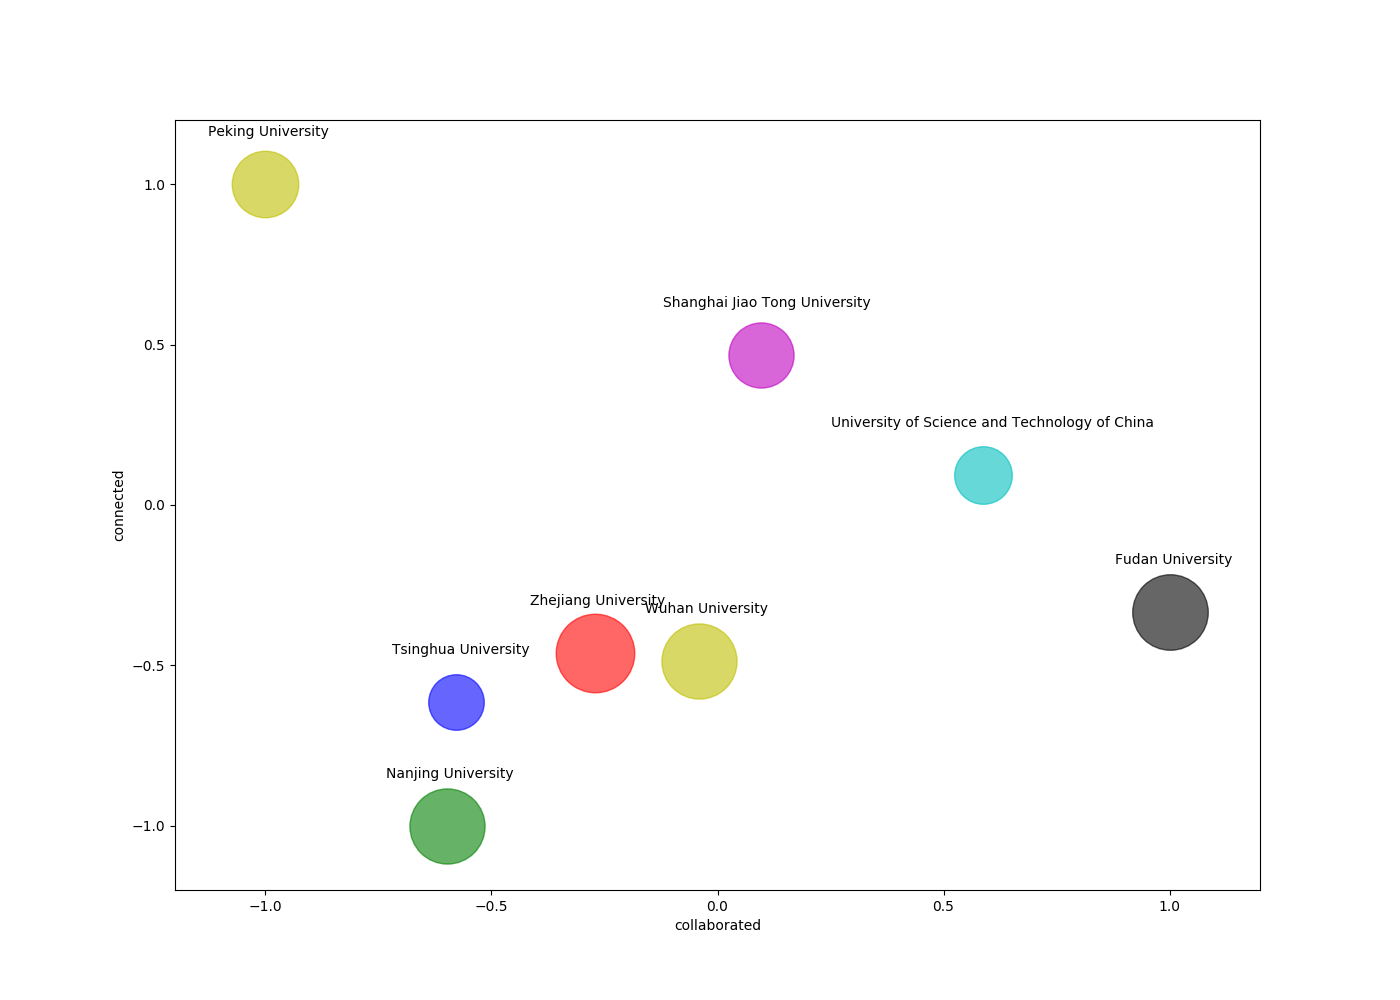
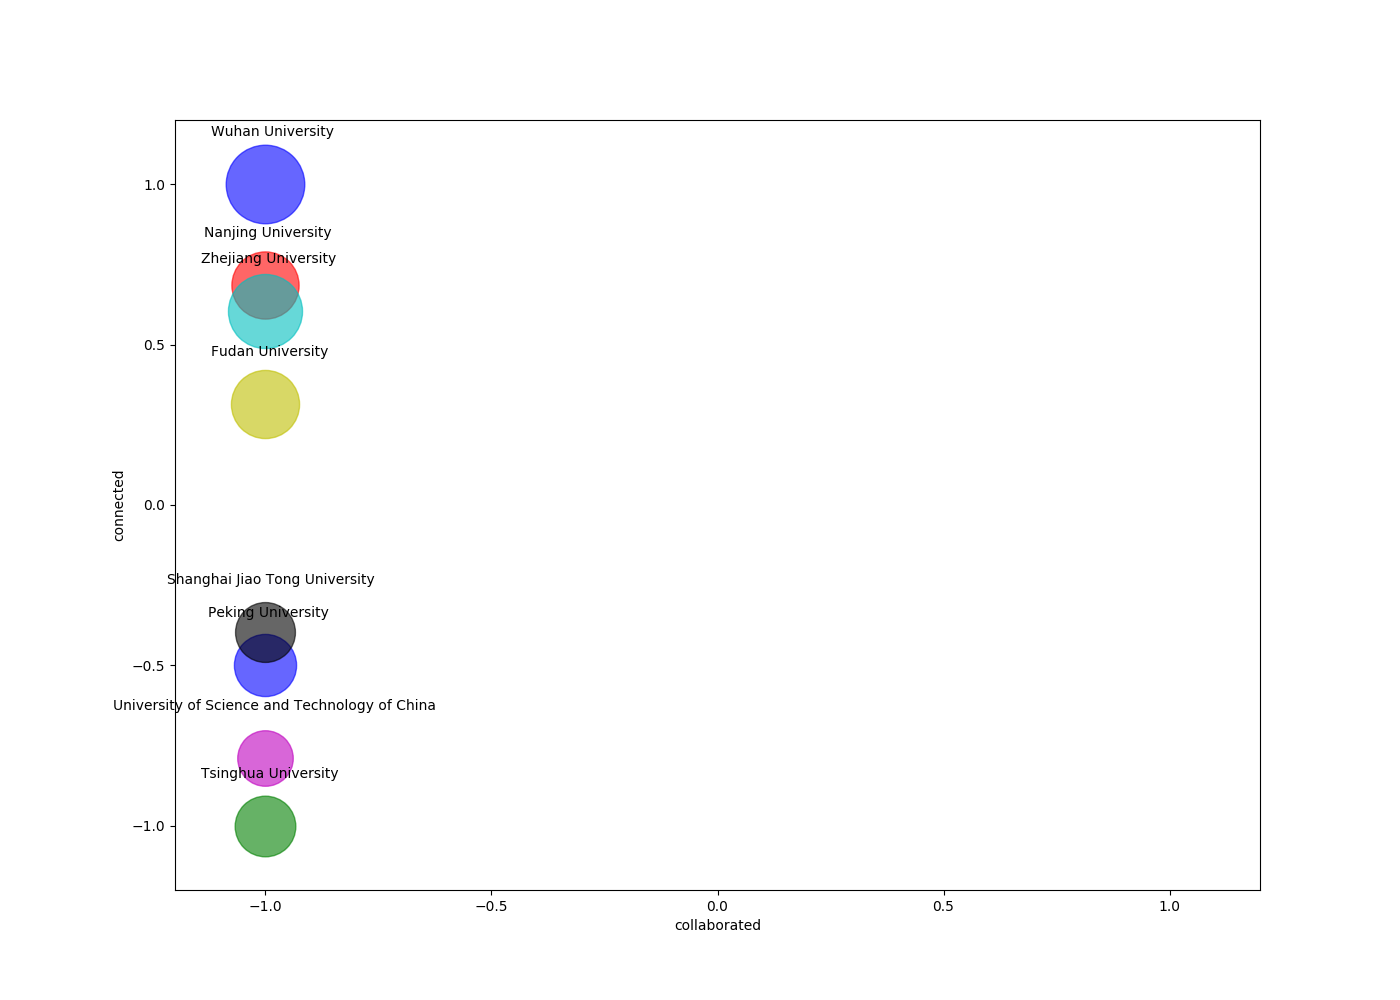
add more metrics

diff --git a/analyze.py b/analyze.py
@@ -4,10 +4,34 @@ import json, re
 from collections import defaultdict
 from itertools import cycle
 import util
+import pandas as pd
+from mpl_toolkits.mplot3d import Axes3D
 
-color_cycle = cycle('ybgrcmk')
+color_cycle = cycle('bgrcmky')
 
-def compute_total_connection(connections):
+def compute_member_w_connection(connections, stat):
+    '''
+    this function compute # of faculty members w/ connection provided by google scholar
+    params:
+        connections: dict of dict, saved by main.find_connections,
+            key: institution name, value: dict, 
+            secondary key: faculty member's name, secondary value: list of cooperating institutions
+        stat:
+            statistics
+    return value:
+        stat: key: institution name, value: dict
+        secondary key: #member_w_connection, secondary value: cnt
+    '''
+    for univ in connections:
+        member_cnt = 0
+        for member in connections[univ]:
+            if connections[univ][member]:
+                member_cnt += 1
+        stat[univ]['#member_w_connection'] = member_cnt
+        stat[univ]['#total_member'] = len(connections[univ])
+    return stat
+
+def compute_total_connection(connections, stat):
     '''
     this function computes the average connection per faculty member of a given institution
     have. Note: since we set `top_k` for maximum number of google scholar coauthors, this
@@ -16,89 +40,94 @@ def compute_total_connection(connections):
     params:
         connections: dict of dict, saved by main.find_connections,
             key: institution name, value: dict, 
-            secondary key: faculty member's name, secondary value: list of cooperating institutions 
+            secondary key: faculty member's name, secondary value: list of cooperating institutions
     return value:
         dict:
             key: institution name, value: dict
-            secondary key: 'total': # of total connections, '#members': # of all faculty members
+            secondary key: 'total_connections': # of total_connections connections,
+            '#members': # of all faculty members
     '''
-    t_avg_cons = dict()
     for univ in connections:
         cnt = 0
         for member in connections[univ]:
             cnt += len(connections[univ][member])
-        t_avg_con = defaultdict(float)
-        t_avg_con['total'] = cnt
-        t_avg_con['#members'] = len(connections[univ])
-        t_avg_cons[univ] = t_avg_con
-    return t_avg_cons
+        stat[univ]['total_connections'] = cnt
+    return stat
 
-def compute_inner_connection(counts, t_avg_cons):
+def compute_inner_connection(counts, stat):
     '''
-    this function computes the ratio of inner connections to total connections
+    this function computes the ratio of inner_connection_ratio connections to total_connections connections
     params:
         counts: dict of dict, saved by main.compute_frequency
             key: institution name, value: dict,
             secondary key: institute's name, secondary key: number of occurrance
-        t_avg_cons: dict of defaultdict, returned by compute_total_connection
-            key: institution name, value: dict
-            secondary key: 'total', 'avg', value: total connections, avg per member
+        stat: dict of dict, statistics computed
     return value:
         defaultdict:
             key: institution name, value: dict
-            secondary key: 'total', 'avg', 'inner', value: total connections,
-            avg per member, ratio of inner connections
+            secondary key: 'total_connections', 'num_members', 'inner_connection_ratio', value: total_connections connections,
+            num_members per member, ratio of inner_connection_ratio connections
     '''
     for univ in counts:
-        for ins in counts[univ]:    # ins: [institution_name, #connection]
+        stat[univ]['inner_connection_ratio'] = 0
+        for ins in counts[univ]:    # ins: {institution_name: #connection}
             if re.sub('[^a-zA-Z -]', '', ins).lower() == re.sub('[^a-zA-Z -]', '', univ).lower():
-                t_avg_cons[univ]['inner'] += counts[univ][ins] / t_avg_cons[univ]['total']
-        t_avg_cons[univ]['unique'] = len(counts[univ])
-        t_avg_cons[univ]['avg'] = t_avg_cons[univ]['unique'] / t_avg_cons[univ]['#members']
-        t_avg_cons
-    return t_avg_cons
+                stat[univ]['inner_connection_ratio'] += counts[univ][ins]
+        stat[univ]['inner_connection_ratio'] /= stat[univ]['total_connections']
+        stat[univ]['unique_connections'] = len(counts[univ])
+        stat[univ]['avg_connection_per_member'] = stat[univ]['unique_connections'] / stat[univ]['#total_member']
+        stat[univ]['avg_per_member_w_connection'] = stat[univ]['unique_connections'] / stat[univ]['#member_w_connection']
+        stat[univ]['avg_collaborator_per_member'] = stat[univ]['total_connections'] / stat[univ]['#member_w_connection']
+    return stat
 
 def plot_field(stat):
     '''
     this function will visualize the data we collect, with x-axis being outer connection ratio,
-    and y-axis being number of unique connections, size of plot being total connections
+    and y-axis being number of unique_connections connections, size of plot being total_connections connections
     params:
         stat: dict of dict
             key: institution name, value: dict
-            secondary key: 'total', 'avg', 'inner', 'unique'
+            secondary key: 'total_connections', 'num_members', 'inner_connection_ratio', 'unique_connections'
     return value:
         none
     '''
-    plt.figure(figsize=(14, 10))
-    plt.xlabel('collaborated')
-    plt.ylabel('connected')
-    plt.xlim(-1.2, 1.2)
-    plt.ylim(-1.2, 1.2)
-    total, inner, unique, avg = [], [], [], []
+    fig = plt.figure()
+    ax = fig.add_subplot(111, projection='3d')
+    ax.set_xlabel('outreached')
+    ax.set_ylabel('connected')
+    ax.set_zlabel('collaborated')
+    ax.set_xlim(-.2, 1.2)
+    ax.set_ylim(-.2, 1.2)
+    ax.set_zlim(-.2, 1.2)
+    x_axis, y_axis, z_axis, area = [], [], [], []
     for univ in stat:
-        total.append(stat[univ]['total'])
-        inner.append(1-stat[univ]['inner'])
-        unique.append(stat[univ]['unique'])
-        avg.append(stat[univ]['avg'])
-    total, inner, unique, avg = np.array(total), np.array(inner), np.array(unique), np.array(avg)
-    epsilon = 2e-8  # avoid divided by 0
-    avg = util.normal_to_m1p1(avg)
-    inner = util.normal_to_m1p1(inner)
-    unique = util.normal_to_01(unique) + 1
+        x_axis.append(1-stat[univ]['inner_connection_ratio'])
+        y_axis.append(stat[univ]['avg_per_member_w_connection'])
+        z_axis.append(stat[univ]['avg_collaborator_per_member'])
+        area.append(stat[univ]['#total_member'])
+    x_axis, y_axis, z_axis, area = np.array(x_axis), np.array(y_axis), np.array(z_axis), np.array(area)
+    x_axis = util.normal_to_01(x_axis)
+    y_axis = util.normal_to_01(y_axis)
+    z_axis = util.normal_to_01(z_axis)
+    area = util.normal_to_01(area) + 1
     offset1, offset2, idx = 7.5e-3, 1.5e-1, 0
     for univ in stat:
-        plt.scatter(inner[idx], avg[idx], s=unique[idx]*1600, c=next(color_cycle), alpha=.6)
-        plt.annotate(univ, (inner[idx], avg[idx]), (inner[idx]-offset1*len(univ), avg[idx]+offset2))
+        ax.scatter(x_axis[idx], y_axis[idx], z_axis[idx], s=area[idx]*2000, c=next(color_cycle), marker='o', alpha=.6)
+        # ax.annotate(univ, (x_axis[idx],y_axis[idx], z_axis[idx]), (x_axis[idx], y_axis[idx], z_axis[idx]))
         idx += 1
-    plt.savefig('demo.png')
+    plt.show()
 
-def show():
+def compute_stat():
     con = util.load_data('connections.json')
     cnt = util.load_data('counts.json')
-    t_avg = compute_total_connection(con)
-    stat = compute_inner_connection(cnt, t_avg)
-    print(stat)
-    plot_field(stat)
+    stat = defaultdict(defaultdict)
+    stat = compute_member_w_connection(con, stat)
+    stat = compute_total_connection(con, stat)
+    stat = compute_inner_connection(cnt, stat)
+    return stat
 
 if __name__=="__main__":
-    show()
+    stat = compute_stat()
+    df_stat = pd.DataFrame.from_dict(stat, 'index')
+    df_stat.to_csv('stat.csv')
+    plot_field(stat)

diff --git a/util.py b/util.py
@@ -6,6 +6,7 @@ import requests
 from lxml import etree
 from bs4 import BeautifulSoup
 import random, re, time
+import numpy as np
 random.seed(9102)
 
 def load_data(filename):
@@ -196,7 +197,7 @@ def process_institutions(raw_list):
         a list of the same length, each corresponding entry contains only the name of a coauthor's institution
     '''
     processed_list = []
-    if raw_list == None:
+    if raw_list is None or raw_list == []:
         return processed_list
     for idx in range(len(raw_list)):
         # FIXME: the cases for handling troublesome punctuations are apparently non-exhausted, try to polish this part later
@@ -221,7 +222,7 @@ def process_institutions(raw_list):
                         while entity and entity[-1].isalpha() is False:
                             entity = entity[:-1]
                         # replace "&" with "and"
-                        entity = entity.replace('&', 'and').replace('at ', '')
+                        entity = entity.replace(' & ', ' and ').replace('at ', '')
                         # replace other punctuations, preserving only alphabet, digit, and white space
                         entity = re.sub(r'[^a-zA-z0-9 -]', '', entity)
                         processed_list.append(entity if ins!='single' else party)
@@ -240,7 +241,7 @@ def normal_to_01(arr):
     return value:
         numpy array of same length, with data normalized to range [0, 1]
     '''
-    return (arr-arr.min()) / (arr.max()-arr.min())
+    return (arr-arr.min()) / (arr.max()-arr.min() + np.finfo('float').eps)
 
 def normal_to_m1p1(arr):
     '''
@@ -250,4 +251,4 @@ def normal_to_m1p1(arr):
     return value:
         numpy array of same length, with data normalized to range [-1, 1]
     '''
-    return 2 * (arr-arr.min()) / (arr.max()-arr.min()) - 1
+    return 2 * (arr-arr.min()) / (arr.max()-arr.min() + np.finfo('float').eps) - 1

diff --git a/main.py b/main.py
@@ -52,9 +52,8 @@ def find_connections(univ_faculty_collection):
                 # time.sleep(random.randint(0, 1)) -> it appears that crawling google scholar user page is permitted
                 connection = util.parse_scholar(scholar_page)
                 # save the following line for compute_frequency
-                # connection = util.process_institutions(connection) 
-                if connection:
-                    connection_dict[member] = connection
+                # we should be careful now since this could be empty
+                connection_dict[member] = connection
         connections[univ] = connection_dict
         print('-----finish connection finding for {} after {:.5} sec-----'.format(univ, time.time()-s_time))
         s_time = time.time()
@@ -79,8 +78,10 @@ def compute_frequency(connections, top_k=10):
         count = defaultdict(int)
         for member in connections[univ]:
             connections[univ][member] = util.process_institutions(connections[univ][member])
-            for institute in connections[univ][member]:
-                count[institute] += 1
+            # some faculty member might have no connection on google scholar
+            if connections[univ][member]:
+                for institute in connections[univ][member]:
+                    count[institute] += 1
         counts[univ] = dict(sorted(count.items(), key=lambda x: x[1], reverse=True))
     with open('counts.json', 'w') as cnt:
         json.dump(dict(counts), cnt)
